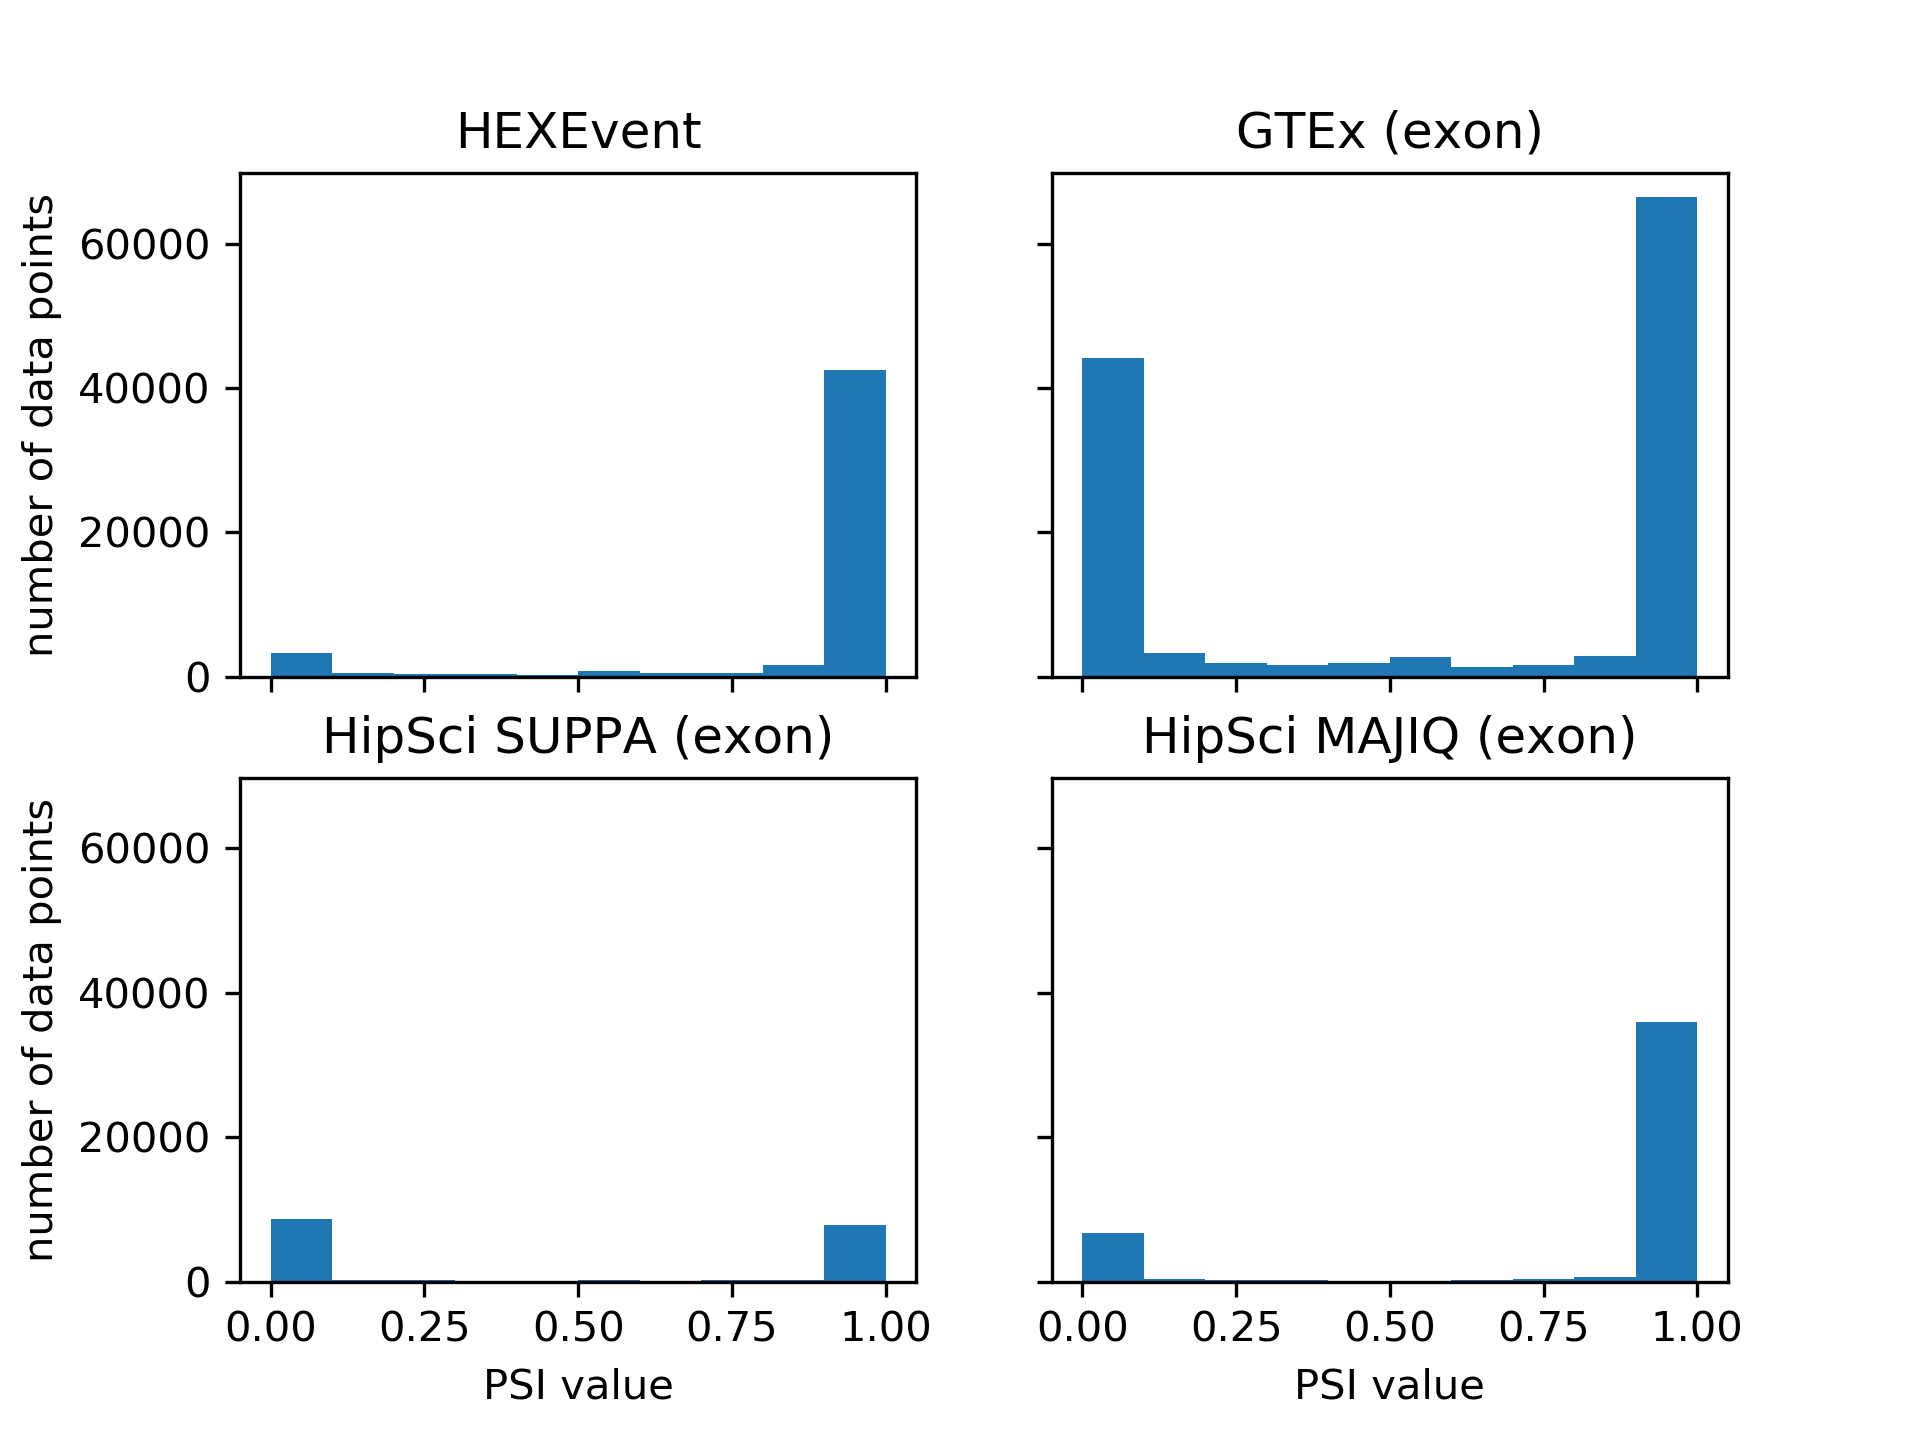
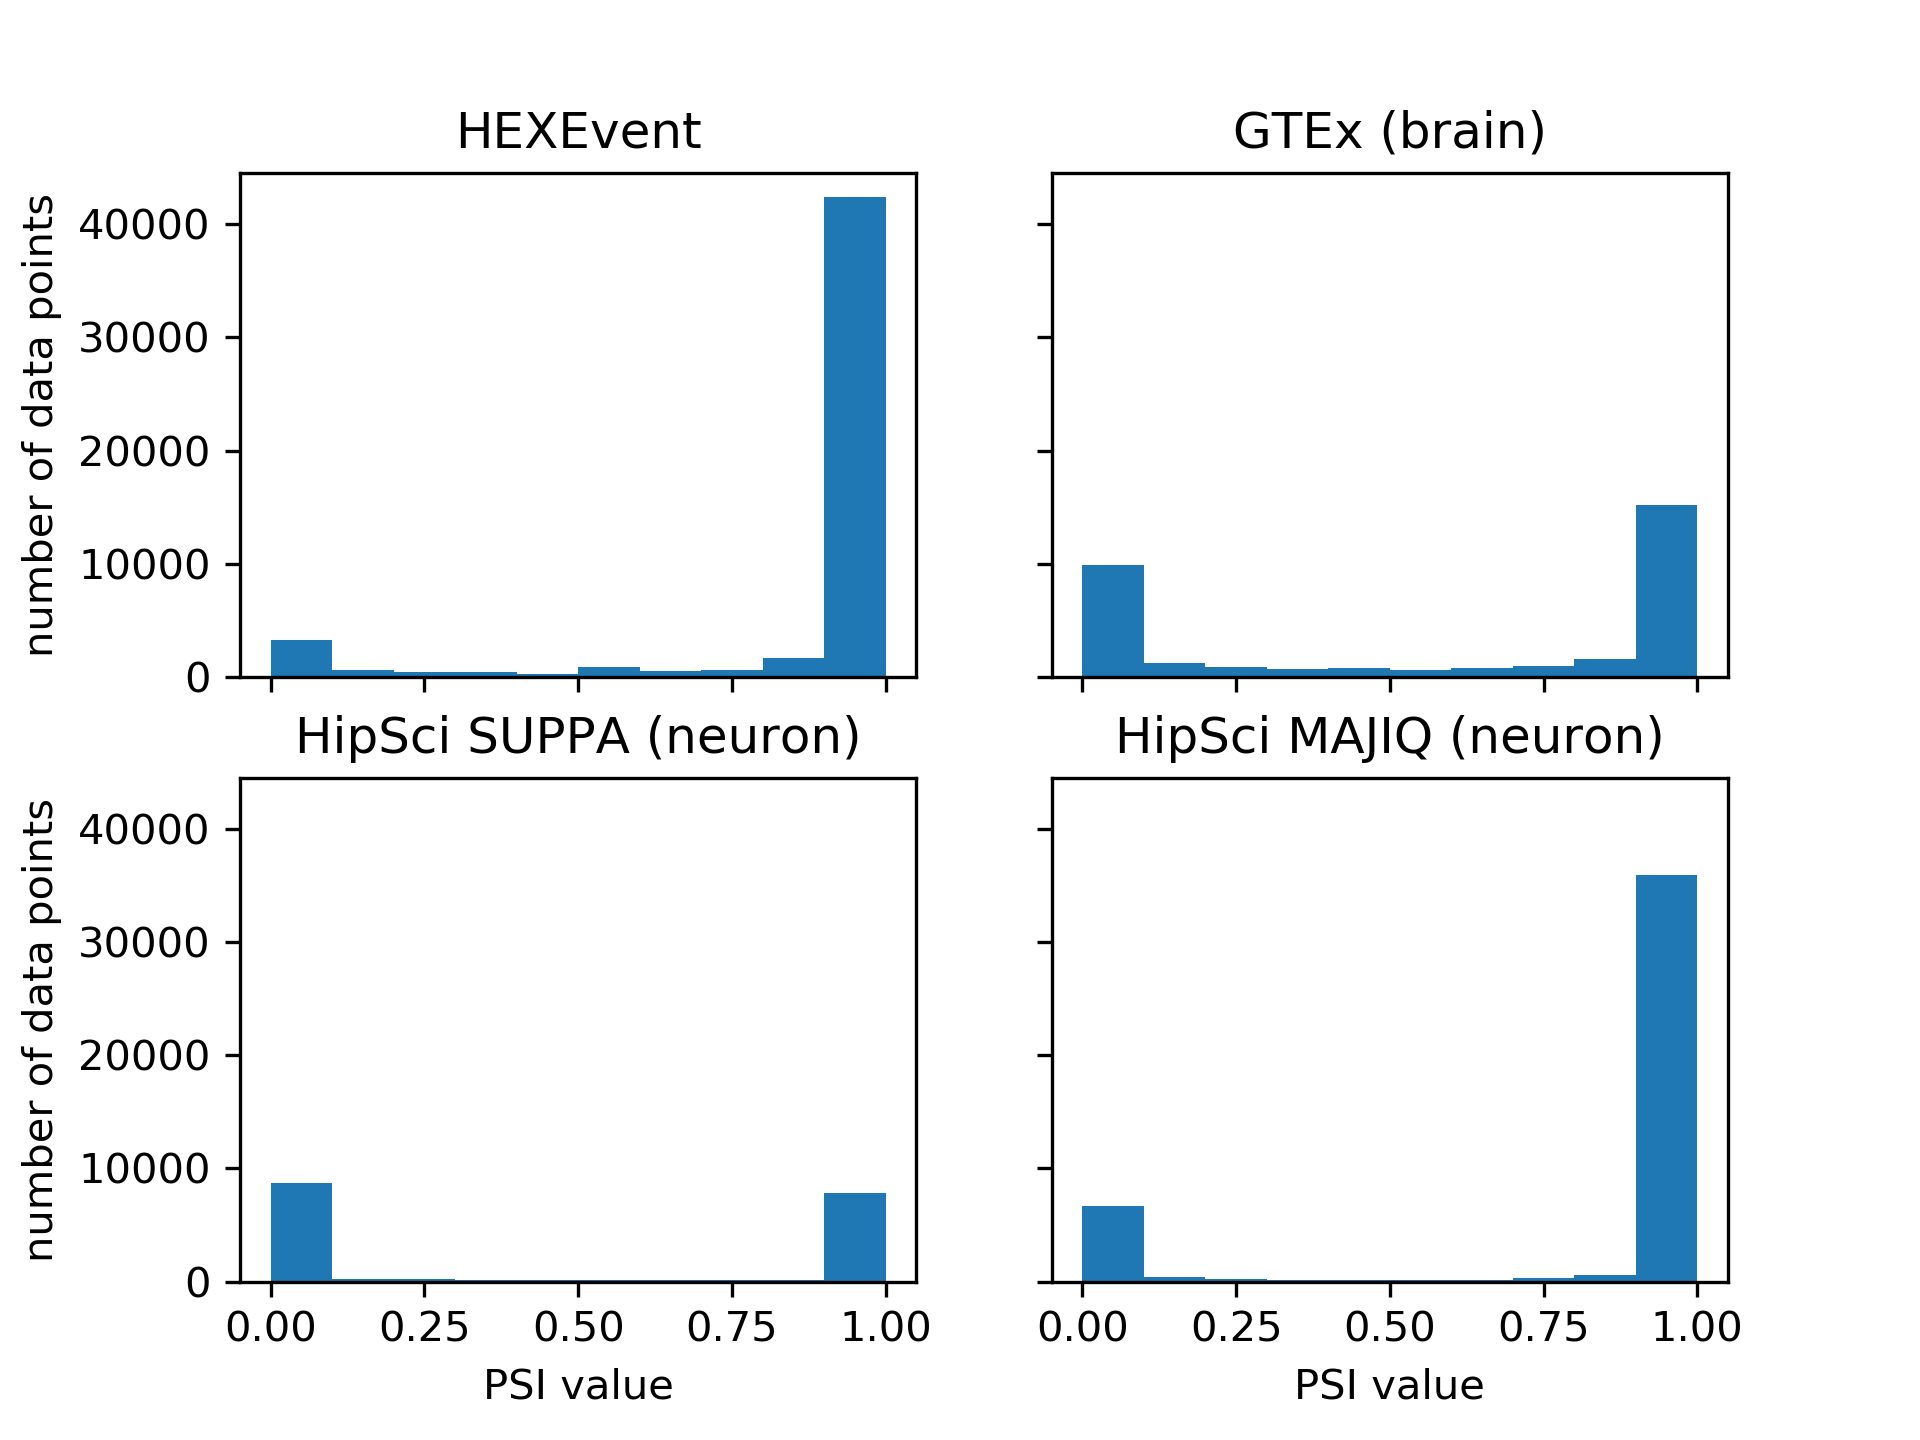
beauty fixes

diff --git a/preprocessing/GTEx/cassette_extract_seq_estimate_psi.py b/preprocessing/GTEx/cassette_extract_seq_estimate_psi.py
@@ -270,8 +270,14 @@ print(f'Cass:')
 print(f'L1avg: {l1avgcass}, l2avg: {l2avgcass}, l3avg: {l3avgcass}')
 print(f'L1 median: {l1mediancass}, l2 median: {l2mediancass}, l3 median: {l3mediancass}')
 
-# print(f'Intron mean: {intron_mean}')
-# print(f'Intron std: {intron_std}')
+l1s, l2s, l3s = np.concatenate((l1scons, l1scass)), np.concatenate((l2scons, l2scass)), np.concatenate((l3scons, l3scass))
+l1avg, l2avg, l3avg = np.average(l1s), np.average(l2s), np.average(l3s)
+l1med, l2med, l3med = np.median(l1s), np.median(l2s), np.median(l3s)
+l1std, l2std, l3std = np.std(l1s), np.std(l2s), np.std(l3s)
+
+print(f'Cons + Cass')
+print(f'L1avg: {l1avg} +- {l1std}, l2avg: {l2avg} +- {l2std}, l3avg: {l3avg} +- {l3std}')
+print(f'L1 median: {l1med}, l2 median: {l2med}, l3 median: {l3med}')
 
 np.save(f'{data_path}/{save_to_low}', low_exons)
 np.save(f'{data_path}/{save_to_high}', high_exons)

diff --git a/visualizations/dataset_statistics.py b/visualizations/dataset_statistics.py
@@ -4,11 +4,11 @@ import matplotlib.pyplot as plt
 # will plot hexevent / gtx / majiq / suppa as most variation + 4 fit better into plot
 from matplotlib import ticker
 
-src_paths = ['../data/hexevent', '../data/gtex_processed/brain', '../data/hipsci_suppa',
+src_paths = ['../data/hexevent', '../data/gtex_processed/exon/brain', '../data/hipsci_suppa',
              '../data/hipsci_majiq/exon',]
-names = ['HEXEvent', 'GTEx (exon)', 'HipSci SUPPA (exon)', 'HipSci MAJIQ (exon)']
+names = ['HEXEvent', 'GTEx (brain)', 'HipSci SUPPA (neuron)', 'HipSci MAJIQ (neuron)']
 
-use_seaborn = True
+use_seaborn = False
 # tending towards seaborn atm
 if use_seaborn:
     plt.style.use('seaborn')

diff --git a/preprocessing/reconstruction/extract_seq_and_psi_exon.py b/preprocessing/reconstruction/extract_seq_and_psi_exon.py
@@ -1,12 +1,12 @@
 # given junction reads from the correct samples, extract the corresponding intron-exon sequences from the genome
-import csv
-import linecache
-from timeit import default_timer as timer
-import numpy as np
-from utils import reverse_complement, one_hot_encode_seq
-import matplotlib.pyplot as plt
 import argparse
+import csv
+from timeit import default_timer as timer
 
+import matplotlib.pyplot as plt
+import numpy as np
+
+from utils import reverse_complement, one_hot_encode_seq
 
 parser = argparse.ArgumentParser()
 parser.add_argument('--tissue', type=str, default='', metavar='tissue',
